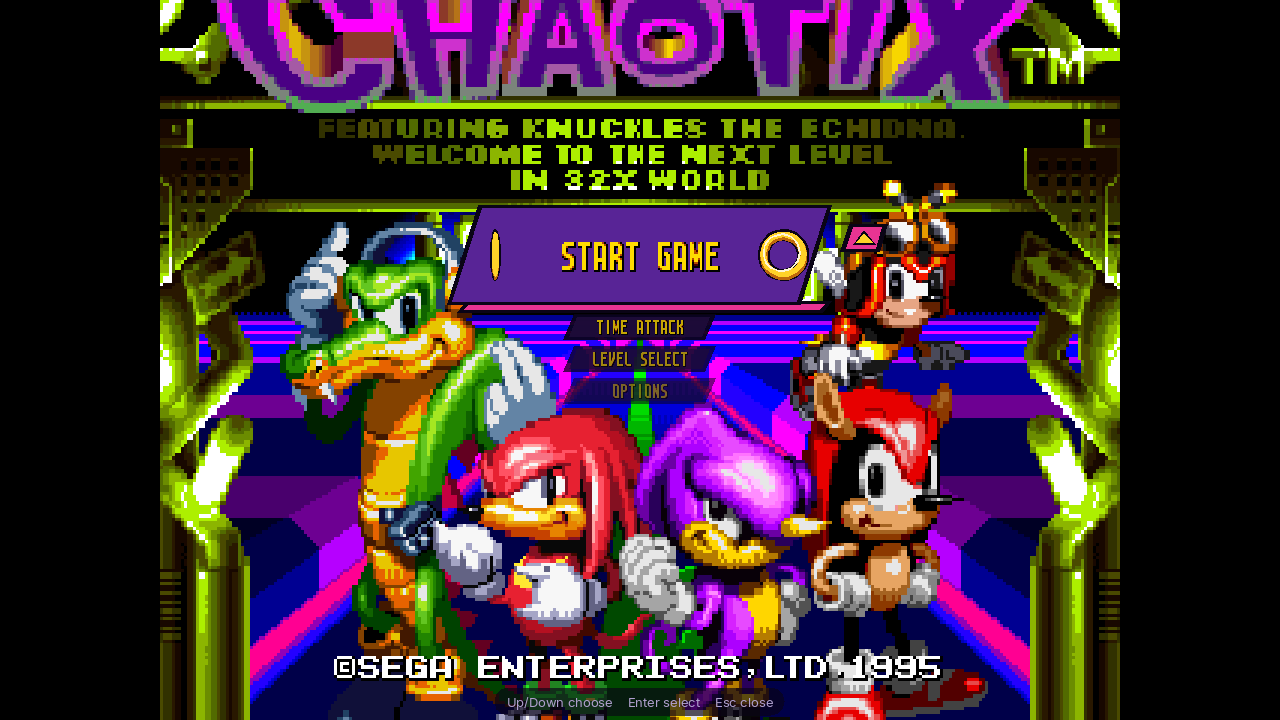
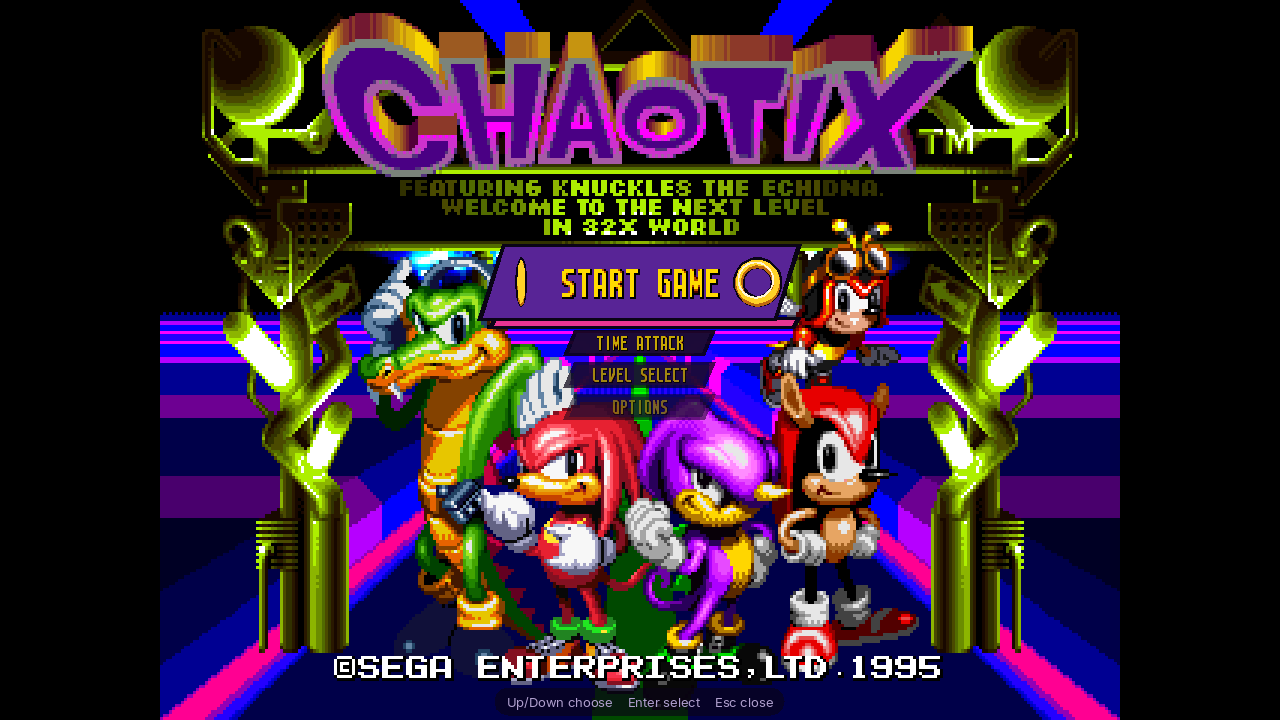
Title-screen menu: portrait column in menu order, PUSH START box of the settled title (issue #3)
- Portrait: the column under the picture is the whole menu in its own
  order (START GAME to QUIT, no wrapping), with the selected entry's place
  marked in purple edged in magenta. A column too long for the room shows
  a window that keeps the entries either side of the selection in view;
  it is set a little closer so that a phone holds all of it at LARGE.
  The arrows beside the plaque now stand in for whichever neighbour is not
  shown. Landscape keeps its wrapping three under the plaque.
- The PUSH START box was measured on frame 1500, while the title is still
  zooming in (logo cut at the top, frame lower and larger). Remeasured on
  the settled title (from about frame 1520 until the demo at about 1950):
  columns 115-205, lines 76-100 (was 101-219, 64-95). The placement does
  not crop anything; the screenshots are retaken at frame 1800.

Tests: front_end.* checks the portrait column's order and that the
selection's neighbours stay in view.

diff --git a/src/platform/menu.cpp b/src/platform/menu.cpp
@@ -1742,12 +1742,14 @@ void Menu::set_picture(const SDL_FRect& image, int fb_width, int fb_height, int 
 
 SDL_FRect Menu::push_start_box(const SDL_FRect& image, int fb_width, int fb_height, int fb_extra) {
     // The title screen shows PUSH START in a lime-green frame under the
-    // logo: columns 99-221 and lines 62-97 of its 320x224 picture, measured
-    // on the program's own screenshots of it. The selected entry covers the
-    // inside of the frame's outer edge, columns 101-219 and lines 64-95, so
-    // the game's prompt does not show beside ours. The title screen is 4:3
-    // in every mode; a wide frame buffer has its extra columns either side.
-    constexpr float kX = 101, kY = 64, kW = 118, kH = 31;
+    // logo: columns 114-206 and lines 75-101 of its 320x224 picture once it
+    // has settled (from about frame 1520 after power-on; it zooms in before
+    // that), measured on the program's own screenshots of it. The selected
+    // entry covers the inside of the frame's outer edge, columns 115-205 and
+    // lines 76-100, so the game's prompt does not show beside ours. The title
+    // screen is 4:3 in every mode; a wide frame buffer has its extra columns
+    // either side.
+    constexpr float kX = 115, kY = 76, kW = 90, kH = 24;
     const float sx = image.w / float(std::max(1, fb_width)), sy = image.h / float(std::max(1, fb_height));
     return {image.x + (float(std::max(0, fb_extra)) + kX) * sx, image.y + kY * sy, kW * sx, kH * sy};
 }
@@ -1828,12 +1830,13 @@ void Menu::draw(ui::Ui& g, achievements::Tracker& ach) {
 // selected entry is on a purple plaque laid over the box the title shows PUSH
 // START in, with a spinning ring at each end -- the two rings of the game's
 // combi -- for the cursor, so the chosen entry is always where the player
-// looks for PUSH START. The entries after it, in the order Down reaches them
-// (round past the last to the first), are stacked under it on smaller
-// banners: over the characters in a landscape window, three of them, fading;
-// on a portrait one in the room under the picture, as many as fit. Nothing is
-// drawn above the box, so the logo and the line under it stay clear. The
-// intro and the attract demo run behind it the same way.
+// looks for PUSH START. In a landscape window the entries after it, in the
+// order Down reaches them (round past the last to the first), are stacked
+// under it on smaller banners over the characters, three of them, fading. In
+// a portrait one the whole menu is a column in the room under the picture, in
+// its own order, the selected entry's place marked. Nothing is drawn above the
+// box, so the logo and the line under it stay clear. The intro and the attract
+// demo run behind it the same way.
 void Menu::draw_front(ui::Ui& g) {
     namespace art = award_art;
     namespace col = award_art::color;
@@ -1892,7 +1895,9 @@ void Menu::draw_front(ui::Ui& g) {
     const SDL_FRect plaque{cx - plaque_w * 0.5f, cy - plaque_h * 0.5f, plaque_w, plaque_h};
 
     // The entries after it, all as wide as the longest.
-    const float pitch = lp + g.px(16) + extra;
+    // A portrait column is a little closer set, so that a phone holds all of
+    // it at LARGE.
+    const float pitch = lp + g.px(portrait ? 12.0f : 16.0f) + extra;
     const float row_h = lp + g.px(10) + extra * 0.5f;
     const float nlean = row_h * 0.4f;
     float nw = 0;
@@ -1903,21 +1908,44 @@ void Menu::draw_front(ui::Ui& g) {
     float list_y = plaque.y + plaque.h + gap;
     if (portrait) list_y = std::max(list_y, picture_rect(g).y + picture_rect(g).h + gap);
     const int room = int(std::max(0.0f, bottom - list_y) / pitch);
-    const int shown = std::min({int(n) - 1, portrait ? int(n) - 1 : 3, room});
-    for (int d = 1; d <= shown; ++d) {
-        const int i = (sel + d) % int(n);
-        // Landscape: fading out over the characters. Portrait: under the
-        // picture, over black, all but evenly.
-        const uint8_t a = portrait ? uint8_t(std::max(150, 240 - 12 * (d - 1)))
-                                   : uint8_t(d == 1 ? 235 : d == 2 ? 185 : 135);
-        const float slot_y = list_y + pitch * float(d - 1);
+    auto entry = [&](int i, float slot_y, uint8_t a, bool here) {
         const SDL_FRect slot{cx - nw * 0.5f, slot_y, nw, pitch};
         const SDL_FRect b{slot.x, slot_y + (pitch - row_h) * 0.5f, nw, row_h};
-        art::banner(g, b, nlean, col::night.alpha(a), col::ink.alpha(a), edge);
+        // The selected entry's own place in the column: purple edged in
+        // magenta, in full brightness, as the plaque is.
+        if (here) art::banner(g, b, nlean, col::magenta, col::magenta, 0);
+        art::banner(g, here ? SDL_FRect{b.x + edge, b.y + edge, b.w - edge * 2, b.h - edge * 2} : b, nlean,
+                    here ? col::purple : col::night.alpha(a), col::ink.alpha(a), edge);
         const std::string& l = items_[size_t(i)].label;
         const float w = std::min(g.text_width(Font::Pixel, l), text_room);
-        g.text_fit(Font::Pixel, cx - w * 0.5f, b.y + (row_h - lp) * 0.5f, text_room, l, col::text_dim.alpha(a));
+        g.text_fit(Font::Pixel, cx - w * 0.5f, b.y + (row_h - lp) * 0.5f, text_room, l,
+                   here ? ui::theme::text : col::text_dim.alpha(a));
         hits_.push_back({slot, i});
+    };
+    // Which entries the arrows beside the plaque need to stand in for.
+    bool before_shown = sel == 0, after_shown = sel == int(n) - 1;
+    if (portrait) {
+        // The whole menu in its own order, START GAME to QUIT, with the
+        // selected entry's place marked; a column too long for the room
+        // shows a window of it that keeps the entries either side of the
+        // selection in view.
+        const int fit = std::max(1, std::min(int(n), room));
+        const int first = std::clamp(sel - (fit - 1) / 2, 0, int(n) - fit);
+        for (int k = 0; k < fit; ++k) {
+            const int i = first + k;
+            entry(i, list_y + pitch * float(k), 235, i == sel);
+        }
+        before_shown = before_shown || sel - 1 >= first;
+        after_shown = after_shown || sel + 1 < first + fit;
+    } else {
+        // Landscape: the entries after it, in the order Down reaches them
+        // (round past the last to the first), fading out over the characters.
+        const int shown = std::min({int(n) - 1, 3, room});
+        for (int d = 1; d <= shown; ++d)
+            entry((sel + d) % int(n), list_y + pitch * float(d - 1), uint8_t(d == 1 ? 235 : d == 2 ? 185 : 135),
+                  false);
+        before_shown = before_shown || shown >= int(n) - 1;
+        after_shown = after_shown || shown > 0;
     }
 
     // The plaque, with a magenta stripe under it as under the AWARDS title.
@@ -1926,10 +1954,10 @@ void Menu::draw_front(ui::Ui& g) {
     art::banner(g, plaque, lean, col::purple, col::ink, edge);
 
     // Arrows that step the selection, since a finger has no Up/Down: up
-    // whenever the entry before this one is not among those shown under it
-    // (which a tap would reach), down when none are. Beside the plaque, or
-    // with no room beside it at its right-hand end in place of the ring.
-    const bool more_up = n > 1 && shown < int(n) - 1, more_down = n > 1 && shown == 0;
+    // whenever the entry before this one is not shown (where a tap would
+    // reach it), down likewise for the one after. Beside the plaque, or with
+    // no room beside it at its right-hand end in place of the ring.
+    const bool more_up = !before_shown, more_down = !after_shown;
     const float mh = std::min(plaque.h * 0.5f - g.px(3), lp + g.px(12)), mw = mh * 1.7f;
     const bool inside = plaque.x + plaque.w + g.px(8) + mw > W - g.px(4);
     const bool markers = more_up || more_down;

diff --git a/tests/test_menu.cpp b/tests/test_menu.cpp
@@ -1826,19 +1826,37 @@ TEST(front_end, the_selected_entry_covers_push_start) {
                     if (win.h >= 480) CHECK(covers(plaque, box));
                     // Nor does it rise over the line above the box.
                     if (win.h >= 480) CHECK(plaque.y >= box.y - 0.5f);
-                    int others = 0;
+                    const bool portrait = win.h > win.w;
+                    const int sel = m.selected_index();
+                    int others = 0, last = -1;
+                    bool before = sel == 0, after = sel == 8, in_order = true;
                     for (const auto& [index, r] : m.drawn_rows()) {
-                        if (index == m.selected_index()) continue;
+                        if (portrait) {
+                            // The whole menu in its own order, top to bottom,
+                            // the selected entry's place among them; the
+                            // plaque's target comes last.
+                            if (!(index == sel && r.y < win.picture.y + win.picture.h)) {
+                                in_order = in_order && index > last;
+                                last = index;
+                                CHECK(r.y >= win.picture.y + win.picture.h - 0.5f);
+                            }
+                            before = before || index == sel - 1;
+                            after = after || index == sel + 1;
+                        }
+                        if (index == sel) continue;
                         ++others;
                         CHECK(r.y >= plaque.y + plaque.h - 0.5f);
                         CHECK(r.y >= box.y + box.h - 0.5f);
-                        if (win.h > win.w) CHECK(r.y >= win.picture.y + win.picture.h - 0.5f);
                     }
-                    // A portrait phone has the room for all of them up to
-                    // LARGE, a small portrait window at NORMAL; a larger
-                    // MENU SIZE there shows as many as fit.
-                    if (win.h > win.w && (z == 0 || (win.w >= 1000 && z == 1))) CHECK_EQ(others, 8);
-                    else if (win.h > win.w) CHECK(others >= 3);
+                    if (portrait) {
+                        CHECK(in_order);
+                        // A column too long for the room keeps the entries
+                        // either side of the selection in view...
+                        CHECK(before && after);
+                        // ...and a phone has the room for all of them up to
+                        // LARGE.
+                        if (win.w >= 1000 && z <= 1) CHECK_EQ(others, 8);
+                    }
                     m.on_key(SDLK_DOWN);
                 }
             }

diff --git a/docs/MENU_ART.md b/docs/MENU_ART.md
@@ -263,10 +263,14 @@ A.I.R. builds its menus into the game. Since then:
   app tells the menu where the picture is each frame (`Menu::set_picture`).
   Nothing is laid over it but the entries and a small hint at the foot.
 - **The selected entry covers PUSH START.** The title screen shows PUSH START
-  in a lime-green frame under the logo, columns 99-221 and lines 62-97 of its
-  320x224 picture (measured on the program's own screenshots). The selected
-  entry is drawn on a purple plaque over the inside of that frame
-  (`Menu::push_start_box`: columns 101-219, lines 64-95), at least that large
+  in a lime-green frame under the logo, columns 114-206 and lines 75-101 of
+  its 320x224 picture once it has settled (measured on the program's own
+  screenshots). The title zooms in for its first moments (it is shown from
+  about frame 1400 after power-on and settles about frame 1520; the attract
+  demo follows about frame 1950), so a picture taken before then shows the
+  logo cut off at the top and the frame lower and larger. The selected entry
+  is drawn on a purple plaque over the inside of the settled frame
+  (`Menu::push_start_box`: columns 115-205, lines 76-100), at least that large
   at every window size and MENU SIZE, so the game's prompt and ours are never
   both on the screen. This is drawing only: the game still shows PUSH START
   underneath and runs exactly as it would without the menu, so lockstep and
@@ -281,10 +285,13 @@ A.I.R. builds its menus into the game. Since then:
 - **A portrait window** has the room under the picture: while the menu is
   over the title the picture goes to the top of the window
   (`Menu::title_picture_y`; the game goes back to the usual centring once it
-  is handed over), and the other entries are listed under it, over black, as
-  many as fit (all of them on a phone at NORMAL and LARGE). The plaque stays
-  on PUSH START, in the smaller letters if the large ones would make it much
-  taller than the box.
+  is handed over), and the whole menu is a column under it, over black, in
+  its own order (START GAME to QUIT, no wrapping), with the selected entry's
+  place marked: purple edged in magenta, in full brightness. A phone holds all
+  of it at NORMAL and LARGE; a column too long for the room shows a window of
+  it that keeps the entries either side of the selection in view. The plaque
+  stays on PUSH START, in the smaller letters if the large ones would make it
+  much taller than the box.
 - **The cursor** is a pair of spinning gold rings at the plaque's ends, a
   quarter turn apart: the two rings of the game's combi. Plaque, stripe and
   banners are `award_art`'s shapes (`banner`, `ring`, `heading`,
@@ -293,12 +300,13 @@ A.I.R. builds its menus into the game. Since then:
 - **The intro and the attract demo** still run behind the front end; the
   plaque stays where PUSH START will be.
 
-**Touch.** A tap on an entry under the plaque brings it into the box; a tap on
-the plaque acts on it (the first tap selects, the second acts, as on every
-list). While the entry before the selected one is not among those shown, a
-magenta arrow beside the plaque -- or at its right-hand end in place of the
-ring when there is no room beside it -- steps back; when none are shown (an
-800x360 window at EXTRA LARGE), a second one steps on.
+**Touch.** A tap on an entry brings it into the box; a tap on the plaque (or
+on the selected entry's place in the portrait column) acts on it (the first
+tap selects, the second acts, as on every list). While the entry before the
+selected one is not shown, a magenta arrow beside the plaque -- or at its
+right-hand end in place of the ring when there is no room beside it -- steps
+back; while the one after it is not shown (an 800x360 window at EXTRA LARGE),
+a second one steps on.
 
 **Sizes.** Everything is measured in the menu's letters, so MENU SIZE grows
 the plaque, the banners and their spacing.
@@ -326,8 +334,9 @@ is shown). The pause menu over a level is unchanged.
 `tests/test_menu.cpp` (`front_end.*`) checks that the selected entry covers
 the box for every entry, at every MENU SIZE, in 16:9, 4:3, phone, portrait and
 short windows and with both fonts; that nothing rises above the box; that the
-other entries are under the plaque (under the picture on a portrait window,
-all of them where there is the room); and that taps select and start.
+other entries are under the plaque; that on a portrait window the column is
+under the picture, in the menu's own order, with the selection's neighbours
+in view (all of it on a phone up to LARGE); and that taps select and start.
 `menu.the_settings_panel_is_plain_and_fits_its_rows` checks the panel shows
 no zone and is narrower than before; `menu_size.*` and
 `tests/test_menu_size.py` check the touch targets grow and stay on the screen.
